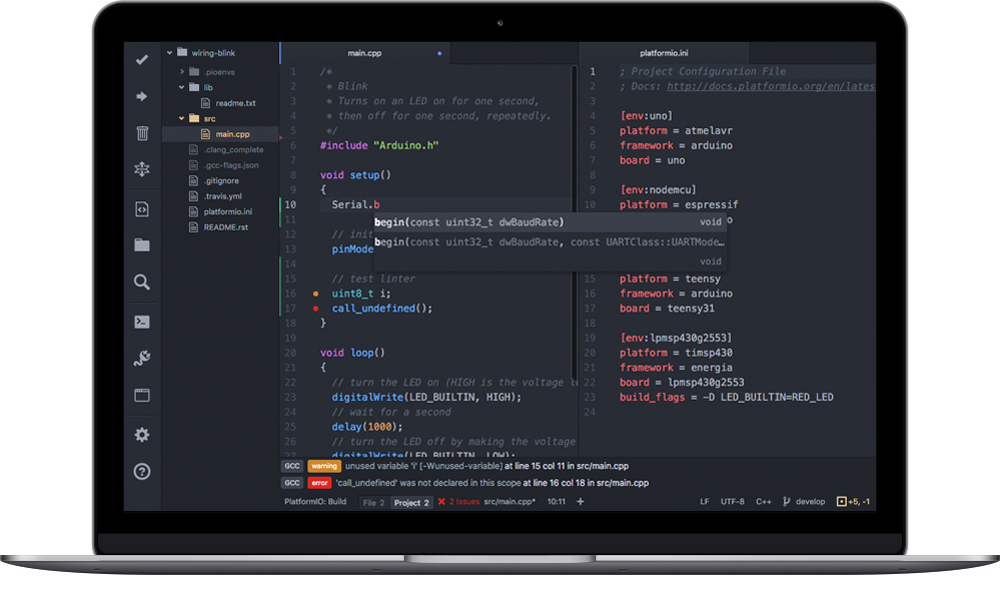
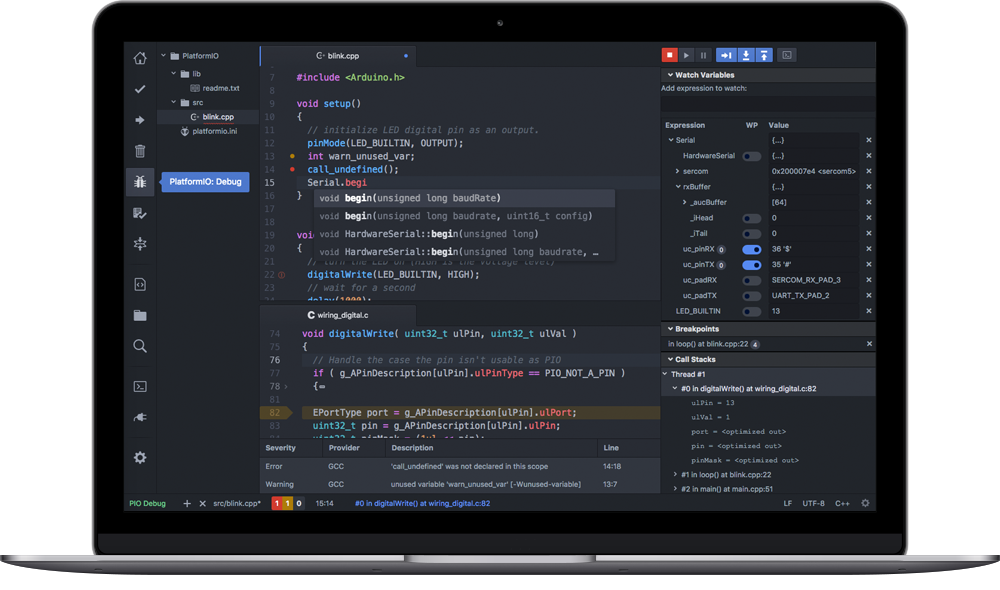
Updated pictures with PIO Unified Debugger

diff --git a/app/views/home.html b/app/views/home.html
@@ -115,13 +115,15 @@
           <a href="http://docs.platformio.org/page/plus/debugging.html">PIO Unified Debugger</a> with a support for the multiple architectures and development platforms that allows you to <a href="/boards?sorting%5Bdebug%5D=asc">debug more than 100+ embedded boards</a> with Zero-Configuration!
         </p>
         <p class="lead"><i class="fa fa-check"></i>
-          Cross-platform build system without external dependencies to the OS software: <a href="/boards">300+ embedded boards</a>, <a href="/platforms">15+ development platforms</a>, <a href="/frameworks">10+ frameworks</a>
+          Cross-platform build system without external dependencies to the OS software: <a href="/boards">350+ embedded boards</a>, <a href="/platforms">15+ development platforms</a>, <a href="/frameworks">10+ frameworks</a>
         </p>
         <p class="lead"><i class="fa fa-check"></i> C/C++ <abbr title="C/C++ Intelligent Code Completion">Intelligent Code Completion</abbr> and <abbr title="C/C++ Smart Code Linter">Smart Code Linter</abbr> for rapid professional development</p>
         <p class="lead"><i class="fa fa-check"></i> Multi-projects workflow with multiple panes and Themes support with dark and light colors</p>
         <p class="lead"><i class="fa fa-thumbs-up"></i> Built-in Terminal with <a href="http://docs.platformio.org/page/core.html">PlatformIO Core</a> and powerful Serial Port Monitor</p>
       </div>
       <div class="col-md-8">
+        <br />
+        <br />
         <a href="/platformio-ide" analytics-on analytics-event="Image" analytics-category="IDE" analytics-label="Home"><img src="images/platformio-ide-for-atom.png" class="img-thumbnail" alt="PlatformIO IDE for IoT development" title="PlatformIO IDE for IoT development" uib-tooltip="PlatformIO IDE for IoT development"></a>
       </div>
     </div>
